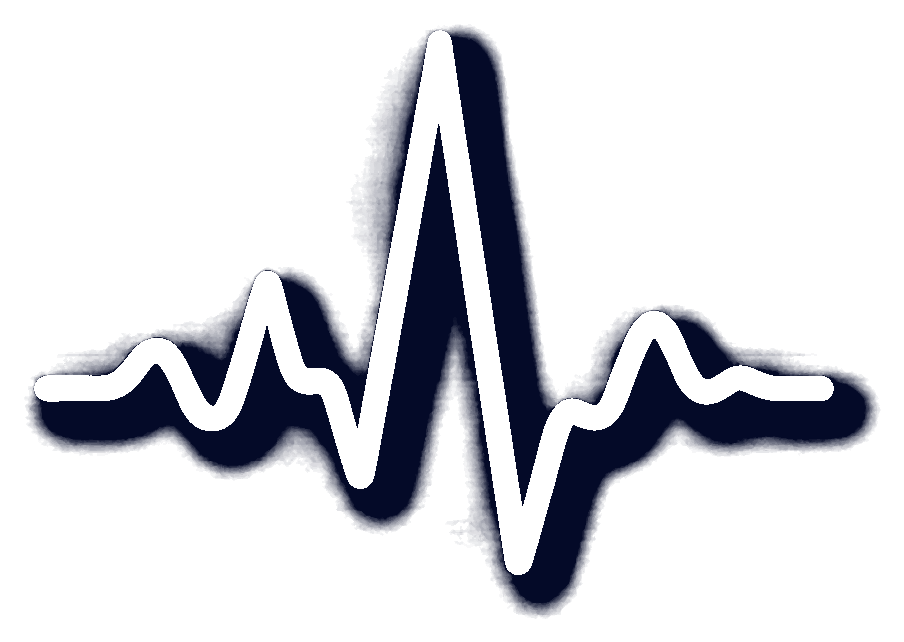
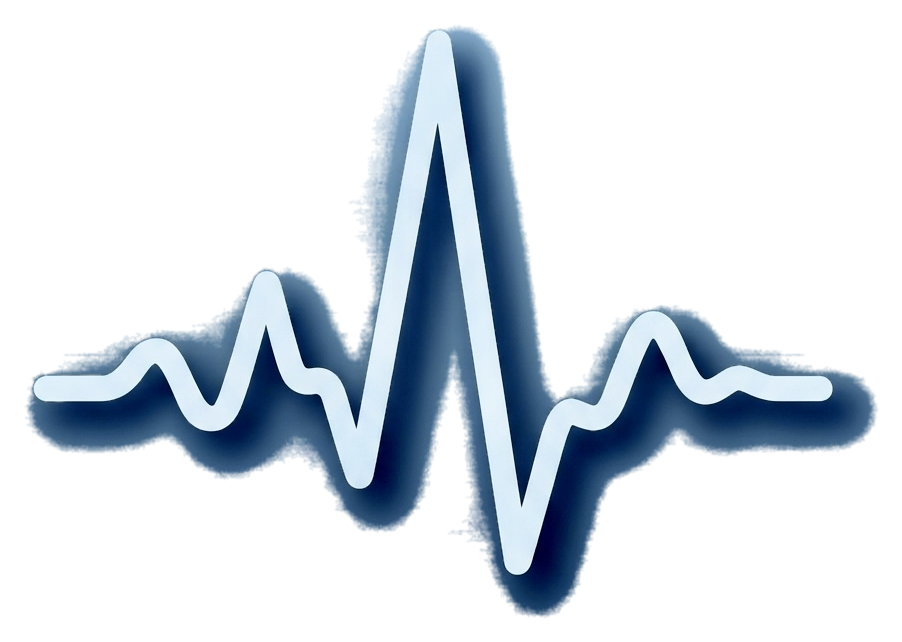
update

Changed region(s): [[0.031, 0.0312, 0.9933, 0.9657]]

diff --git a/src/components/pulse/EcgHero.jsx b/src/components/pulse/EcgHero.jsx
@@ -1,20 +1,26 @@
 import { useEffect, useState } from 'react'
 
 // The exact ZNU Pulse artwork — extracted pixel-for-pixel from the
-// real logo (line + its real drop shadow, transparent background).
-// This is the actual image, not a redrawn approximation.
-const HERO_IMG = '/pulse-hero.png'
+// real logo (real line color, real shadow, transparent background,
+// smoothed anti-aliasing). <picture> serves WebP (much smaller) with
+// a PNG fallback, and a half-scale "mobile" variant for phones so
+// they don't download the full desktop-resolution asset.
+const HERO_WEBP = '/pulse-hero.webp'
+const HERO_PNG = '/pulse-hero.png'
+const HERO_WEBP_MOBILE = '/pulse-hero-mobile.webp'
+const HERO_PNG_MOBILE = '/pulse-hero-mobile.png'
 
-// Alpha-only silhouette of just the line (no shadow), pixel-aligned
-// to HERO_IMG. Used as a CSS mask so the traveling light sweep is
-// clipped to the exact real curve, not an approximated SVG path.
-const LINE_MASK = '/pulse-line-mask.png'
-
-// Native pixel dimensions of both PNGs — used to lock the aspect
-// ratio so the hero never shifts layout while loading, at any
-// viewport size from phone to desktop.
-const ART_WIDTH = 904
+// Native pixel size of the full-res artwork — locks the aspect ratio
+// so nothing shifts while the image loads, on any screen size.
+const ART_WIDTH = 902
 const ART_HEIGHT = 642
+
+// The exact same curve traced from the logo, expressed in the SAME
+// pixel coordinate frame as the cropped PNG above (0,0 = top-left of
+// pulse-hero.png, units = actual image pixels). Because both the
+// image and this path share one coordinate system, the animated beam
+// below lines up with the real line exactly, at any render size.
+const ECG_PATH = 'M0,388 L120,388 C137.5,388 148,339 154,339 C161,339 171.5,388 190,388 C200.25,388 205.5,431 210,431 C214.5,431 222.75,388 235,388 C251.25,388 259.5,272 266,272 C272.5,272 282.75,388 300,388 L314,388 L356,487 L437,31 L517,573 L565,388 L613,388 C630.5,388 646,312 653,312 C660,312 664.5,388 682,388 L722,388 C730.75,388 734.5,366 738,366 C741.5,366 748.25,388 757,388 L902,388'
 
 function usePrefersReducedMotion() {
   const [reduced, setReduced] = useState(false)
@@ -28,19 +34,39 @@ function usePrefersReducedMotion() {
   return reduced
 }
 
+// Narrow viewports get a lighter version of the glow (smaller blur
+// radius) — multiple large blurred SVG filters are noticeably more
+// expensive on phone GPUs than desktop.
+function useIsNarrow() {
+  const [narrow, setNarrow] = useState(() =>
+    typeof window !== 'undefined' && window.matchMedia('(max-width: 640px)').matches
+  )
+  useEffect(() => {
+    const mq = window.matchMedia('(max-width: 640px)')
+    setNarrow(mq.matches)
+    const handler = (e) => setNarrow(e.matches)
+    mq.addEventListener?.('change', handler)
+    return () => mq.removeEventListener?.('change', handler)
+  }, [])
+  return narrow
+}
+
 export default function EcgHero({ height = 220 }) {
   const reduced = usePrefersReducedMotion()
+  const narrow = useIsNarrow()
+
+  const glowBlur = narrow ? 3 : 5
+  const haloBlur = narrow ? 6 : 11
 
   return (
     <div style={{
       position: 'relative', width: '100%', height, maxHeight: '100%',
       display: 'flex', alignItems: 'center', justifyContent: 'center',
-      overflow: 'hidden'
     }}>
       <style>{`
-        @keyframes pulseHeroLightSweep {
-          0%   { background-position: -60% 0; }
-          100% { background-position: 160% 0; }
+        @keyframes pulseHeroSweep {
+          0%   { stroke-dashoffset: 0.16; }
+          100% { stroke-dashoffset: -1; }
         }
         .pulse-hero-art-wrap {
           position: relative;
@@ -48,51 +74,82 @@ export default function EcgHero({ height = 220 }) {
           height: 100%;
           aspect-ratio: ${ART_WIDTH} / ${ART_HEIGHT};
         }
-        .pulse-hero-art-wrap img,
-        .pulse-hero-sweep {
+        .pulse-hero-art-wrap picture img,
+        .pulse-hero-art-wrap svg {
           position: absolute;
           inset: 0;
           width: 100%;
           height: 100%;
         }
-        /* The moving highlight: a wide soft bright band, masked to the
-           exact real line silhouette, sliding left-to-right on a loop.
-           mix-blend-mode: screen brightens the underlying white line
-           wherever the band passes, without touching the shadow
-           (the mask excludes the shadow entirely). */
-        .pulse-hero-sweep {
-          -webkit-mask-image: url(${LINE_MASK});
-          mask-image: url(${LINE_MASK});
-          -webkit-mask-size: 100% 100%;
-          mask-size: 100% 100%;
-          -webkit-mask-repeat: no-repeat;
-          mask-repeat: no-repeat;
-          background: linear-gradient(
-            90deg,
-            transparent 0%,
-            transparent 38%,
-            rgba(207, 232, 255, 0.9) 47%,
-            #ffffff 50%,
-            rgba(207, 232, 255, 0.9) 53%,
-            transparent 62%,
-            transparent 100%
-          );
-          background-size: 300% 100%;
-          mix-blend-mode: screen;
-          animation: pulseHeroLightSweep 2.8s linear infinite;
-          filter: drop-shadow(0 0 6px rgba(160, 210, 255, 0.85))
-                  drop-shadow(0 0 16px rgba(120, 180, 255, 0.5));
+        .pulse-hero-art-wrap picture img {
+          object-fit: contain;
+        }
+        /* Traveling beam: a short bright segment (14% of the path's
+           length via pathLength=1 + dasharray) sliding continuously
+           left-to-right through the exact curve, front-to-back like a
+           real light pulse moving through a tube. */
+        .pulse-hero-beam {
+          stroke-dasharray: 0.16 1;
+          animation: pulseHeroSweep 2.6s linear infinite;
         }
         @media (prefers-reduced-motion: reduce) {
-          .pulse-hero-sweep { animation: none !important; opacity: 0.6 !important; background-position: 50% 0 !important; }
+          .pulse-hero-beam { animation: none !important; opacity: 0.5 !important; }
         }
       `}</style>
 
       <div className="pulse-hero-art-wrap">
-        {/* The exact real artwork — line + shadow, unmodified */}
-        <img src={HERO_IMG} alt="" style={{ objectFit: 'contain' }} draggable={false} />
-        {/* Traveling light, clipped to the exact real line pixels */}
-        {!reduced && <div className="pulse-hero-sweep" />}
+        {/* The exact real artwork — real line color, real shadow */}
+        <picture>
+          <source
+            media="(max-width: 640px)"
+            srcSet={HERO_WEBP_MOBILE}
+            type="image/webp"
+          />
+          <source srcSet={HERO_WEBP} type="image/webp" />
+          <source
+            media="(max-width: 640px)"
+            srcSet={HERO_PNG_MOBILE}
+          />
+          <img
+            src={HERO_PNG}
+            alt=""
+            width={ART_WIDTH}
+            height={ART_HEIGHT}
+            draggable={false}
+            loading="eager"
+            decoding="async"
+          />
+        </picture>
+
+        {/* Traveling light beam — same exact path, same coordinate
+            frame as the image above, so it runs precisely through the
+            real curve, appearing to travel inside the tube itself. */}
+        {!reduced && (
+          <svg viewBox={`0 0 ${ART_WIDTH} ${ART_HEIGHT}`} preserveAspectRatio="xMidYMid meet" aria-hidden="true">
+            <defs>
+              <filter id="pulseBeamGlow" x="-40%" y="-40%" width="180%" height="180%">
+                <feGaussianBlur stdDeviation={glowBlur} result="blur" />
+                <feMerge>
+                  <feMergeNode in="blur" />
+                  <feMergeNode in="SourceGraphic" />
+                </feMerge>
+              </filter>
+              <filter id="pulseBeamHalo" x="-60%" y="-60%" width="220%" height="220%">
+                <feGaussianBlur stdDeviation={haloBlur} />
+              </filter>
+            </defs>
+
+            {/* soft wide halo trailing the core light, for depth */}
+            <path className="pulse-hero-beam" pathLength="1" d={ECG_PATH} fill="none"
+              stroke="#eaf5ff" strokeWidth="16" strokeLinecap="round" strokeLinejoin="round"
+              opacity="0.5" filter="url(#pulseBeamHalo)" />
+
+            {/* crisp bright core, exactly on the real line's centerline */}
+            <path className="pulse-hero-beam" pathLength="1" d={ECG_PATH} fill="none"
+              stroke="#ffffff" strokeWidth="6" strokeLinecap="round" strokeLinejoin="round"
+              filter="url(#pulseBeamGlow)" />
+          </svg>
+        )}
       </div>
     </div>
   )

diff --git a/src/pages/Home.jsx b/src/pages/Home.jsx
@@ -23,8 +23,8 @@ const LOGO_SRC = '/icon-192.png'
 // Exact gradient sampled from the ZNU Pulse logo artwork itself (top →
 // bottom: light sky-blue fading to deep navy) — same recipe as
 // PAGE_BG in src/components/ui/sign-up.tsx, reproduced stop-for-stop.
-// This now lives on the FIXED page backdrop (see below), not scoped
-// to any single panel.
+// Lives on the FIXED page backdrop below, covering the whole page —
+// not scoped to any single panel.
 const LOGO_BG = [
   'linear-gradient(180deg,',
   '#a6d2ef 0%,',
@@ -288,7 +288,7 @@ export default function Home({ dark, toggleTheme }) {
              uses clamp() rather than a fixed px value, and the image
              inside keeps its aspect ratio via EcgHero's own CSS. */
           .pulse-hero-panel {
-            min-height: clamp(180px, 32vw, 300px);
+            min-height: clamp(140px, 40vw, 300px);
           }
         `}</style>
 
